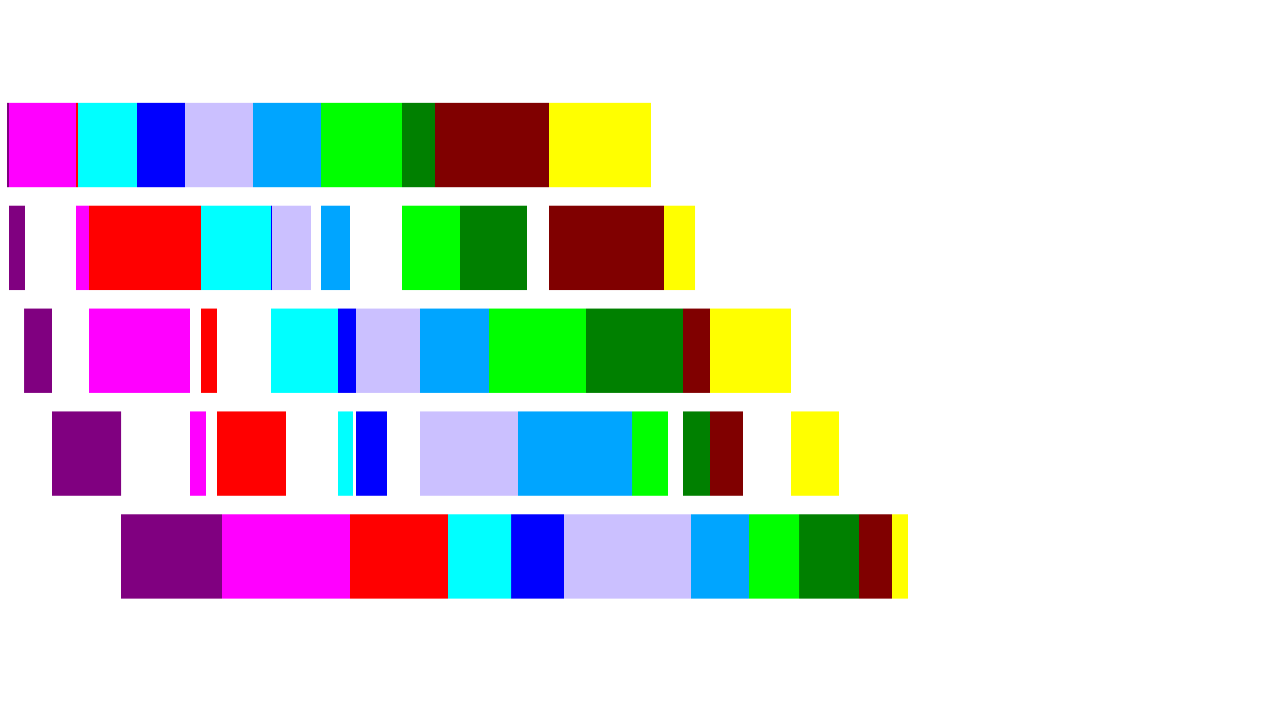
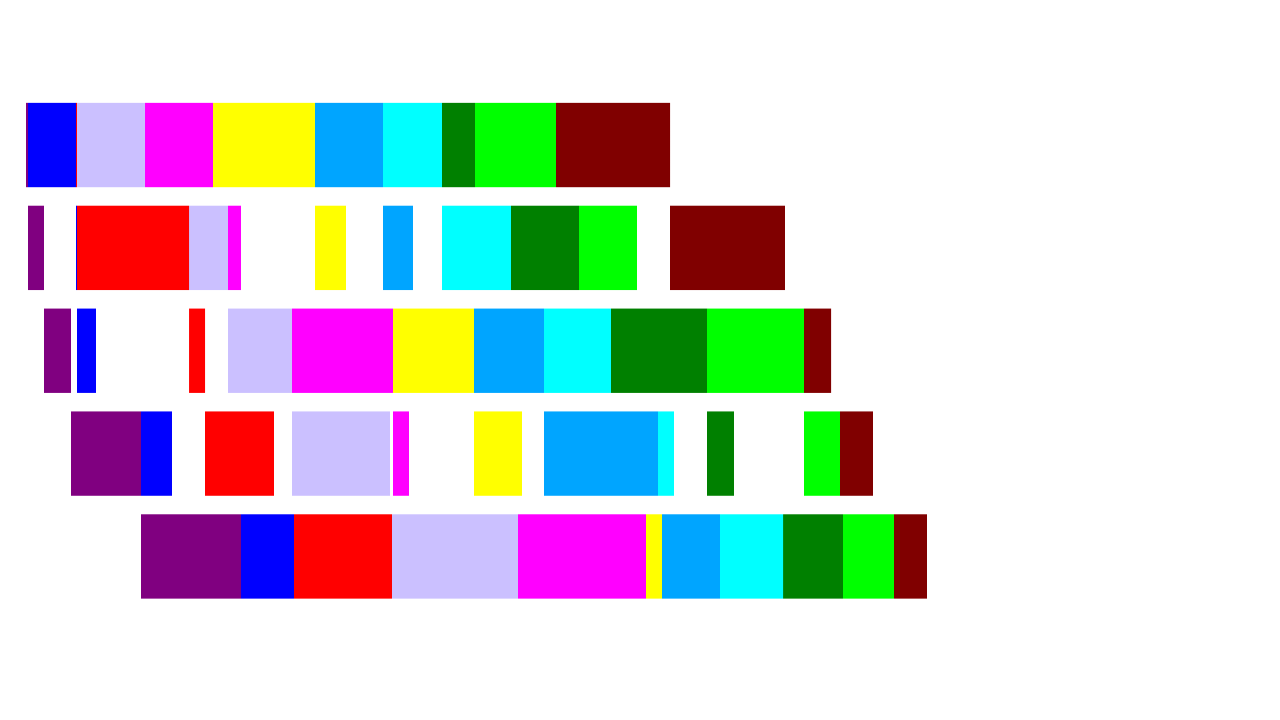
ready to run

Changed region(s): [[0.0, 0.1222, 0.75, 0.8556]]

diff --git a/tools.py b/tools.py
@@ -60,16 +60,29 @@ class Tools():
         img = 255*img
         return img
 
-    def create_graph(self,matrix,limit_x):
+
+    def label_graph(self,img,columns):
+        font = cv2.FONT_HERSHEY_SIMPLEX
+        fontScale = 2
+        thickness = 5
+        color = (0, 0, 0)
+
+        for i in range(len(columns)):
+            cv2.putText(img,'{}'.format(columns[i]),org=(50,50*i+100), fontFace=cv2.LINE_AA,fontScale=fontScale,thickness=thickness,color=color)
+        return img
+
+    def create_graph(self,matrix,limit_x,columns):
 
         img = self.blank_image(matrix,limit_x)
 
         for machine in range(len(matrix)):
             for item in range(len(matrix[machine])):
                 ind,start,finish = matrix[machine][item]
-                cv2.rectangle(img, (start+50, 50*machine + 50), (finish+50, 50*(machine+1) + 40), self.colors[ind], -1)
+                cv2.rectangle(img, (start+200, 50*machine + 50), (finish+200, 50*(machine+1) + 40), self.colors[ind], -1)
 
         # cv2.rectangle(img, (250, 100), (250 + 200, 100 + 50), self.colors[0], 2)
+
+        # img = self.label_graph(img,columns)
 
         img = cv2.resize(img, (1280,720), interpolation = cv2.INTER_AREA)
 
@@ -78,6 +91,8 @@ class Tools():
         cv2.destroyAllWindows()
 
         return img
+    
+
 
 
 # if __name__ == "__main__":

diff --git a/main.py b/main.py
@@ -22,7 +22,10 @@ class Model():
     def GRASP(self):
         start_time = time.time()
 
+        counting_visited_solutions = 0
+
         df = self.data.dataframe
+        columns = df.columns
         num_machines = len(data.dataframe.columns)
         list_index = list(data.dataframe.index)
         neighbors = self.heuristic.permutation_1t(list_index)
@@ -33,8 +36,9 @@ class Model():
             neighbor = neighbors.pop(0)
             matrix = self.constructor.flow_shop_based_on_index_list(num_machines,df,neighbor)
             highest_finish = self.tools.evaluate(matrix)
+            counting_visited_solutions = counting_visited_solutions + 1
             if highest_finish < best_result:
-                img = self.tools.create_graph(matrix,self.data.limit_x_axis)
+                img = self.tools.create_graph(matrix,self.data.limit_x_axis,columns)
                 # cv2.imwrite('image.png', img)
                 best_index = neighbor.copy()
                 best_matrix = matrix.copy()
@@ -49,6 +53,7 @@ class Model():
         cv2.imwrite('image.png', img)
         print(best_index)
         print('Best result:',best_result)
+        print('Visited Solutions:', counting_visited_solutions)
         final_time = time.time()
 
         print(best_matrix)

diff --git a/heuristic.py b/heuristic.py
@@ -13,7 +13,14 @@ class Heuristic():
                 swaps.append(new_vector)
         return swaps
 
+    def permutation_all(self,list_index):
+        permutations = itertools.permutations(list_index)
+        return list(permutations)
+
 if __name__ == "__main__":
     heuristic = Heuristic()
-    print(heuristic.permutation_1t([1,2,3,4]))
-    
+    vector = [0,1,2,3,4,5,6,7,8,9]
+    permutations = heuristic.permutation_all(vector)
+    permutations_1t = heuristic.permutation_1t(vector)
+    # print(len(permutations_1t))
+    print(len(permutations))
